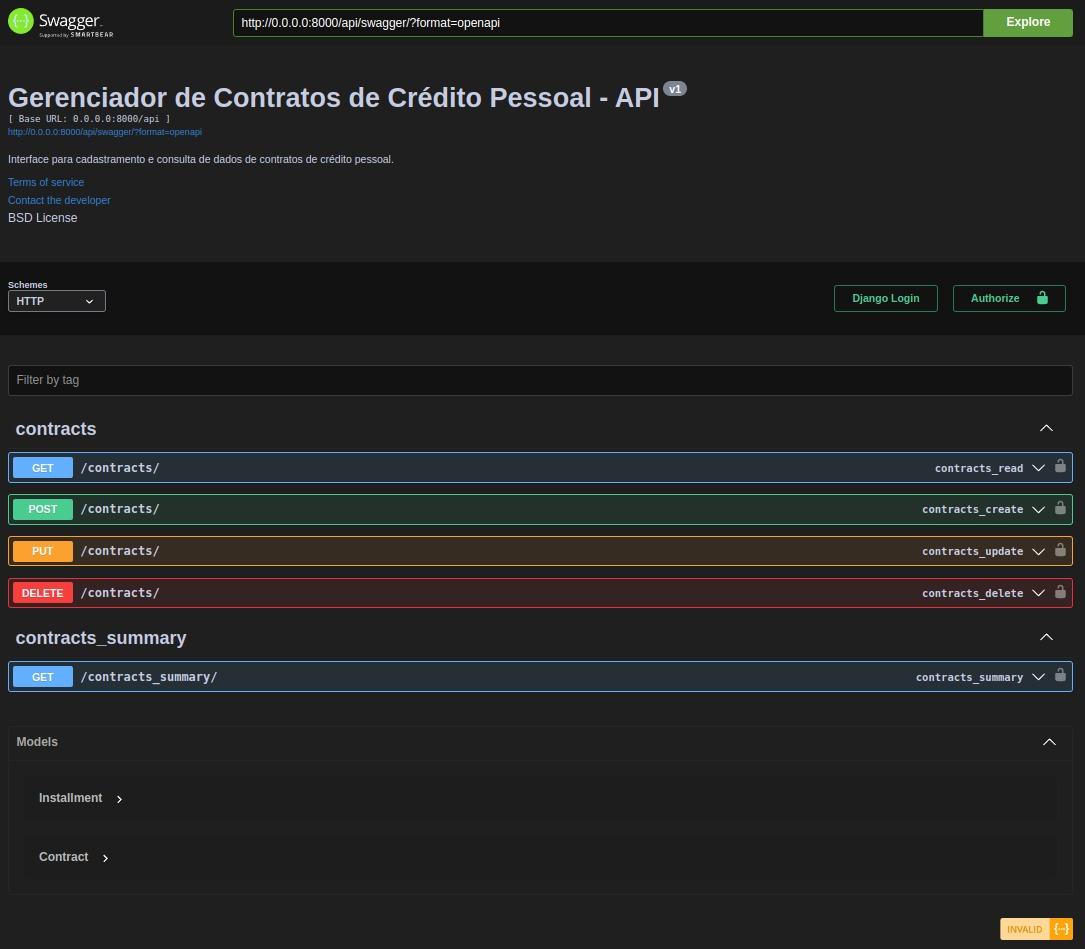
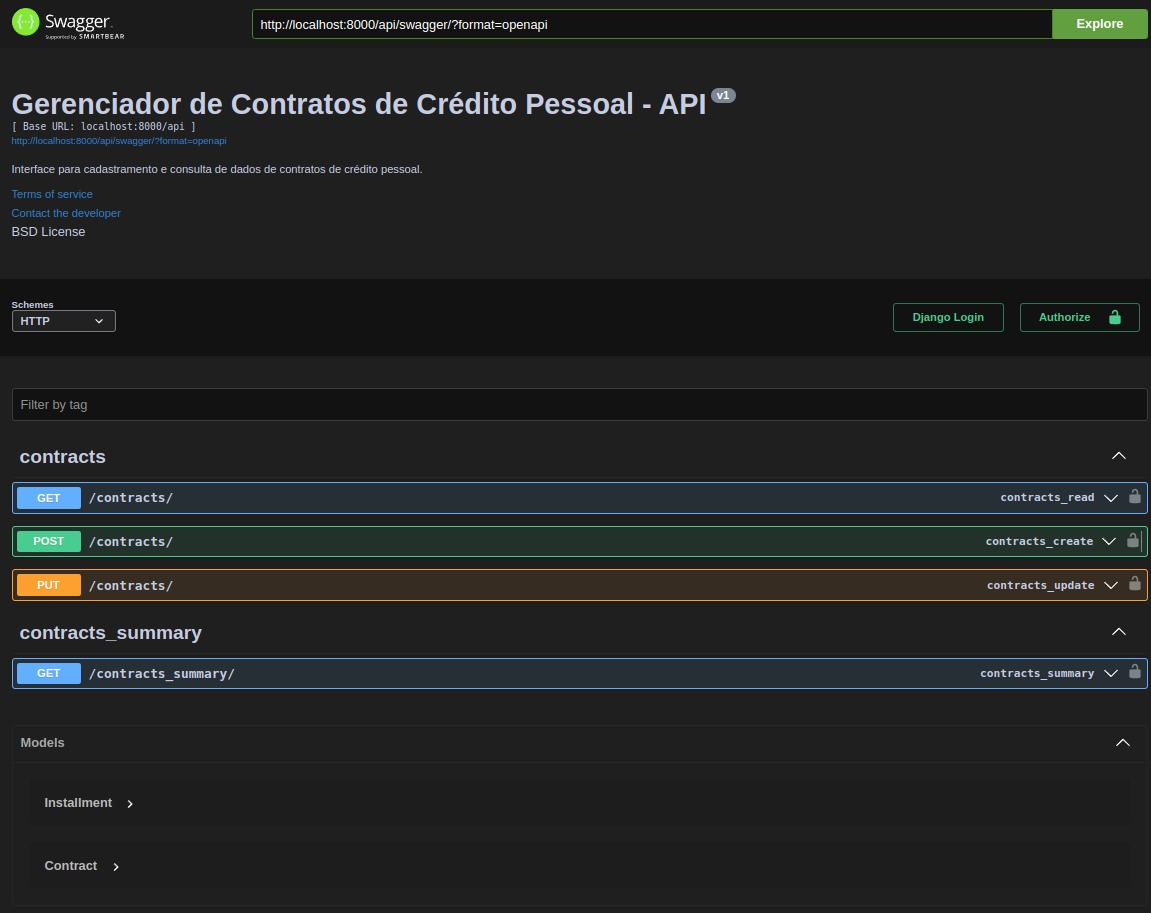
GCCP_API_14 - Update Project Requirements and fix bugs. - README.md: Updated dependencies section to improve test session. - views.py: Improved HTTP methods support. - tests.py: Tests updated. - .env: added environment variables file to facilitate test case session.

diff --git a/gccp_api_rest/views.py b/gccp_api_rest/views.py
@@ -64,14 +64,16 @@ class ContractViewSet(viewsets.GenericViewSet):
 
         return self.get_queryset().filter(filters)
 
-    @action(detail = False, methods = ['post', 'get', 'put', 'delete'])
+    @action(detail = False, methods = ['get', 'post', 'put'])
     def contracts(self, request):
         handlers = {
             'GET': self._handle_contracts_get,
             'POST': self._handle_contracts_post,
             'PUT': self._handle_contracts_put,
-            'DELETE': self._handle_contracts_delete
         }
+
+        if request.method not in handlers:
+            return Response(status=status.HTTP_405_METHOD_NOT_ALLOWED)
 
         handler = handlers.get(request.method)
         return handler(request)
@@ -132,25 +134,13 @@ class ContractViewSet(viewsets.GenericViewSet):
         except Exception as e:
             raise ValidationError(f"Error updating contract: {str(e)}.")
 
-    def _handle_contracts_delete(self, request):
-        queryset = self._apply_filters(request)
-
-        if not request.query_params:
-            raise NotFound('Não há parâmetros fornecidos')
-
-        if not queryset.exists():
-            raise NotFound('Não há contratos com o parâmetros fornecidos')
-
-        data = self.get_serializer(queryset, many = True).data
-
-        try:
-            queryset.delete()
-            return Response(data, status = status.HTTP_200_OK)
-        except Exception as e:
-            raise ValidationError(f"Error deleting contracts: {str(e)}")
 
     @action(detail = False, methods = ['get'])
     def contracts_summary(self, request):
+
+        if request.method != 'GET':
+            return Response(status=status.HTTP_405_METHOD_NOT_ALLOWED)
+
         filtered_queryset = self._apply_filters(request)
 
         ids = filtered_queryset.values_list('id', flat = True)

diff --git a/gccp_api_rest/tests.py b/gccp_api_rest/tests.py
@@ -282,22 +282,3 @@ class ContractsAPITest(APITestCase):
         self.assertEqual(response.data['total_contracts'], 2)
         self.assertEqual(Decimal(response.data['total_disbursed']), Decimal('30000.00'))
         self.assertEqual(Decimal(response.data['total_receivable']), Decimal('30000.00'))
-
-    def test_delete_contract(self):
-        url = reverse('contract-contracts')
-
-        self.assertTrue(Contract.objects.filter(id = self.contract1Id).exists())
-        self.assertTrue(Installment.objects.filter(contract_id = self.contract1Id).exists())
-
-        response = self.client.delete(f"{url}?id={self.contract1Id}")
-
-        self.assertEqual(response.status_code, status.HTTP_200_OK)
-
-        self.assertFalse(Contract.objects.filter(id = self.contract1Id).exists())
-        self.assertFalse(Installment.objects.filter(contract_id = self.contract1Id).exists())
-
-        non_existent_id = ccp_uuid_generator()
-        url = reverse('contract-contracts')
-        response = self.client.delete(f"{url}?id={non_existent_id}")
-
-        self.assertEqual(response.status_code, status.HTTP_404_NOT_FOUND)

diff --git a/README.md b/README.md
@@ -16,8 +16,6 @@ O projeto visa atender aos requisitos demandados pelo [**test case**](doc/CASE_D
 - [**Pré-requisitos**](#pré-requisitos)
 - [**Instalação**](#instalação)
   - [**Como Instalar o Docker e Docker Compose**](#como-instalar-o-docker-e-docker-compose)
-  - [**Como Instalar o Python3**](#como-instalar-o-python3)
-  - [**Como Criar o arquivo .env**](#como-criar-o-arquivo-env) 
 - [**Construção e Execução**](#construção-e-execução)
 - [**GCCP-API**](#gccp-api)
   - [**Descrição da API**](#descrição-da-api)
@@ -35,9 +33,10 @@ O projeto visa atender aos requisitos demandados pelo [**test case**](doc/CASE_D
 
 ## Estrutura do Projeto
 
+- [**doc/**](doc/): Pasta com arquivos de documentação do projeto.
 - [**gccp_api_rest**](gccp_api_rest/): Pasta contendo a implementação do GCCP-API Rest app.
 - [**gccp_api_root**](gccp_api_rest/): Pasta raiz do Django project com o gerenciamento de apps e pacotes.
-- [**doc/**](doc/): Pasta com arquivos de documentação do projeto.
+- [**.env**](.env): Arquivo de exemplo para definição de variáveis de ambiente.
 - [**.gitignore**](.gitignore): Lista arquivos não considerados no versionamento do projeto.
 - [**Dockerfile**](Dockerfile): Definição do ambiente Docker.
 - [**LICENSE**](LICENSE): tipo de licença atribuída ao projeto.
@@ -53,8 +52,6 @@ O projeto visa atender aos requisitos demandados pelo [**test case**](doc/CASE_D
 	
 - **Docker** : instalação do repositório Docker como requisito para instalação do Docker Compose.
 - **Docker Compose** : instalação do repositório Docker Compose para construção e execução da imagem do projeto.
-- **Python3**: instalação da biblioteca Python em função da criação de Secret Keys.
-- **.env** : criação de um arquivo .env para armazenagem de variáveis de ambiente, vitais para funcionamento e integridade do projeto.
 
 ## Instalação
 
@@ -66,114 +63,27 @@ O projeto visa atender aos requisitos demandados pelo [**test case**](doc/CASE_D
     
     No linux, certifique-se de que o seu repositório de pacotes esteja atualizado:
     ```sh
-    sudo apt update
+      sudo apt update
 	```
 2.  **Instalar o Docker**
 
 	Instale o Docker e Docker Compose usando os seguintes comandos:	
 	```sh
-	sudo apt install docker.io -y
+    sudo apt install docker.io -y
     sudo apt install docker-compose-plugin -y
 	```
 3.  **Iniciar e Ativar o Docker**
 	
 	Inicie o serviço do Docker e ative-o para iniciar automaticamente na inicialização:
 	```sh
-	sudo systemctl enable --now docker
+    sudo systemctl enable --now docker
 	```
 4.  **Verificar a Instalação**
 	
 	Confirme as instalações:
 	```sh
-	docker --version
+    docker --version
     docker compose version
-    ```
-5. **Instalar Docker Compose**
-
-### Como Instalar o Python3
-
-1.  **Download do Python3**
-
-    Caso você esteja usando Windows ou macOS você deve baixar o instalador do Python no [**site oficial do Python3**](https://www.python.org/downloads/) e seguir as instruções da instalação. 
-    
-    No linux, certifique-se de que o seu repositório de pacotes esteja atualizado:
-2. 
-    ```sh
-    sudo apt update
-	```
-2.  **Instalar o Docker (Linux)**
-
-	Instale o Python3 usando o seguinte comando:	
-	```sh
-	sudo apt install python3
-	```
-3. **Verificar a Instalação**
-	
-	Confirme que o Python3 está em execução:
-	```sh
-	python3 --version
-    ```
-
-### Como Criar o arquivo .env
-
-1.  **Criar o arquivo .env**
-
-    Na pasta raiz do projeto, crie um arquivo com nome ".env". Se optar pelo terminal execute:
-    
-- Linux/macOS/WSL/Git Bash:
-  ```sh
-  touch .env
-  ```
-- Windows:
-  ```sh
-    type nul > .env
-  ```
-
-2.  **Editar o arquivo .env**
-
-	Com um editor de texto adicione as seguintes váriáveis de ambiente e valores como no exemplo abaixo:	
-	```sh
-    DEBUG=1
-    SECRET_KEY=my_secret_key_string
-    DJANGO_ALLOWED_HOSTS=0.0.0.0
-    DJANGO_RUN_TESTS=true
-    DJANGO_SUPERUSER_USERNAME=admin
-    DJANGO_SUPERUSER_PASSWORD=admin
-    DJANGO_SUPERUSER_EMAIL=admin@admin.com
-
-    POSTGRES_DB=my_db
-    POSTGRES_USER=my_db_user
-    POSTGRES_PASSWORD=my_db_user_password
-    POSTGRES_HOST=db
-    POSTGRES_PORT=5432
-	```
-3.  **Definir valores de variáveis de contexto**
-	
-	Os valores das seguintes variáveis devem ser definidas conforme contexto do usuário:
-    
-- ```DEBUG```: Ativação do modo Debug. Defina ```1``` para ativar e ```0``` para desativar.
-- ```DJANGO_RUN_TESTS```: Ativação da execução de testes unitários do Django Tests. Habilite com ```true``` e desabilite com ```false```.
-- ```DJANGO_SUPERUSER_USERNAME```: Definição do nome do login do Django Superuser Admin.
-- ```DJANGO_SUPERUSER_PASSWORD```: Definição da senha para login do Django Superuser Admin.
-- ```POSTGRES_DB```: Nome do banco de dados do projeto.
-- ```POSTGRES_USER```: Nome do usuário gestor do banco de dados do projeto.
-- ```POSTGRES_PASSWORD```: Senha do usuário gestor do banco de dados do projeto.
-- ```SECRET_KEY```: String usada para assinatura criptográfica, sendo assim importantíssima para segurança e integridade do projeto. Defina conforme próxima instrução:
-
-4. **Gerar Secret Key**
-
-    Abra o terminal do seu sistema operacional e execute:
-    ```sh
-      python -c "from django.core.management.utils import get_random_secret_key; print(get_random_secret_key())"
-    ```
-   Este comando gera a Secret Key em formato de string e retorna no terminal.
-
-
-5. **Atribuir a Secret Key a variável ```SECRET_KEY```**
-
-    Copie a string do comando anterior e, ao abrir seu arquivo .env, atribua-a à variável ```SECRET_KEY```, conforme exemplo abaixo:
-    ```sh
-    SECRET_KEY=my_secret_key_string
     ```
 
 ## Construção e Execução
@@ -406,64 +316,6 @@ O GCCP-API gerencia dados de contrato de crédito pessoal, como os dados do cont
           ]
          ```
 
-  #### Exclusão de dados:
-  - Método de requisição `DELETE`: 
-    - Exemplo exclusão de dados via consulta URL com parâmetros:
-
-      `http://0.0.0.0:8000/api/contracts/?state=MG&issue_date=2025-01-15`
-    - Exemplo de corpo de Resposta (200 - Ok):
-      ```json
-        [
-            {
-              "id": "CCP-AC8B0490",
-              "issue_date": "2025-01-15",
-              "borrower_birth_date": "1995-01-01",
-              "disbursed_amount": "12000.00",
-              "document_number": "11122233344",
-              "country": "Brasil",
-              "state": "MG",
-              "city": "Belo Horizonte",
-              "phone_number": "31999999999",
-              "interest_rate": "1.80",
-              "installments": [
-                  {
-                      "installment_number": 1,
-                      "amount": "15000.00",
-                      "due_date": "2025-04-15"
-                  },
-                  {
-                      "installment_number": 2,
-                      "amount": "15000.00",
-                      "due_date": "2025-05-15"
-                  }
-              ]
-            },
-            {
-              "id": "CCP-0975AEFF",
-              "issue_date": "2025-01-15",
-              "borrower_birth_date": "1997-02-01",
-              "disbursed_amount": "45000.00",
-              "document_number": "21122233344",
-              "country": "Brasil",
-              "state": "MG",
-              "city": "Betim",
-              "phone_number": "31999999999",
-              "interest_rate": "1.50",
-              "installments": [
-                  {
-                      "installment_number": 1,
-                      "amount": "27000.00",
-                      "due_date": "2025-04-12"
-                  },
-                  {
-                      "installment_number": 2,
-                      "amount": "27000.00",
-                      "due_date": "2025-05-13"
-                  }
-              ]
-            }
-        ]
-      ```
 - ### contracts_summary/
     
   **Recursos de Recuperação de dados:**
